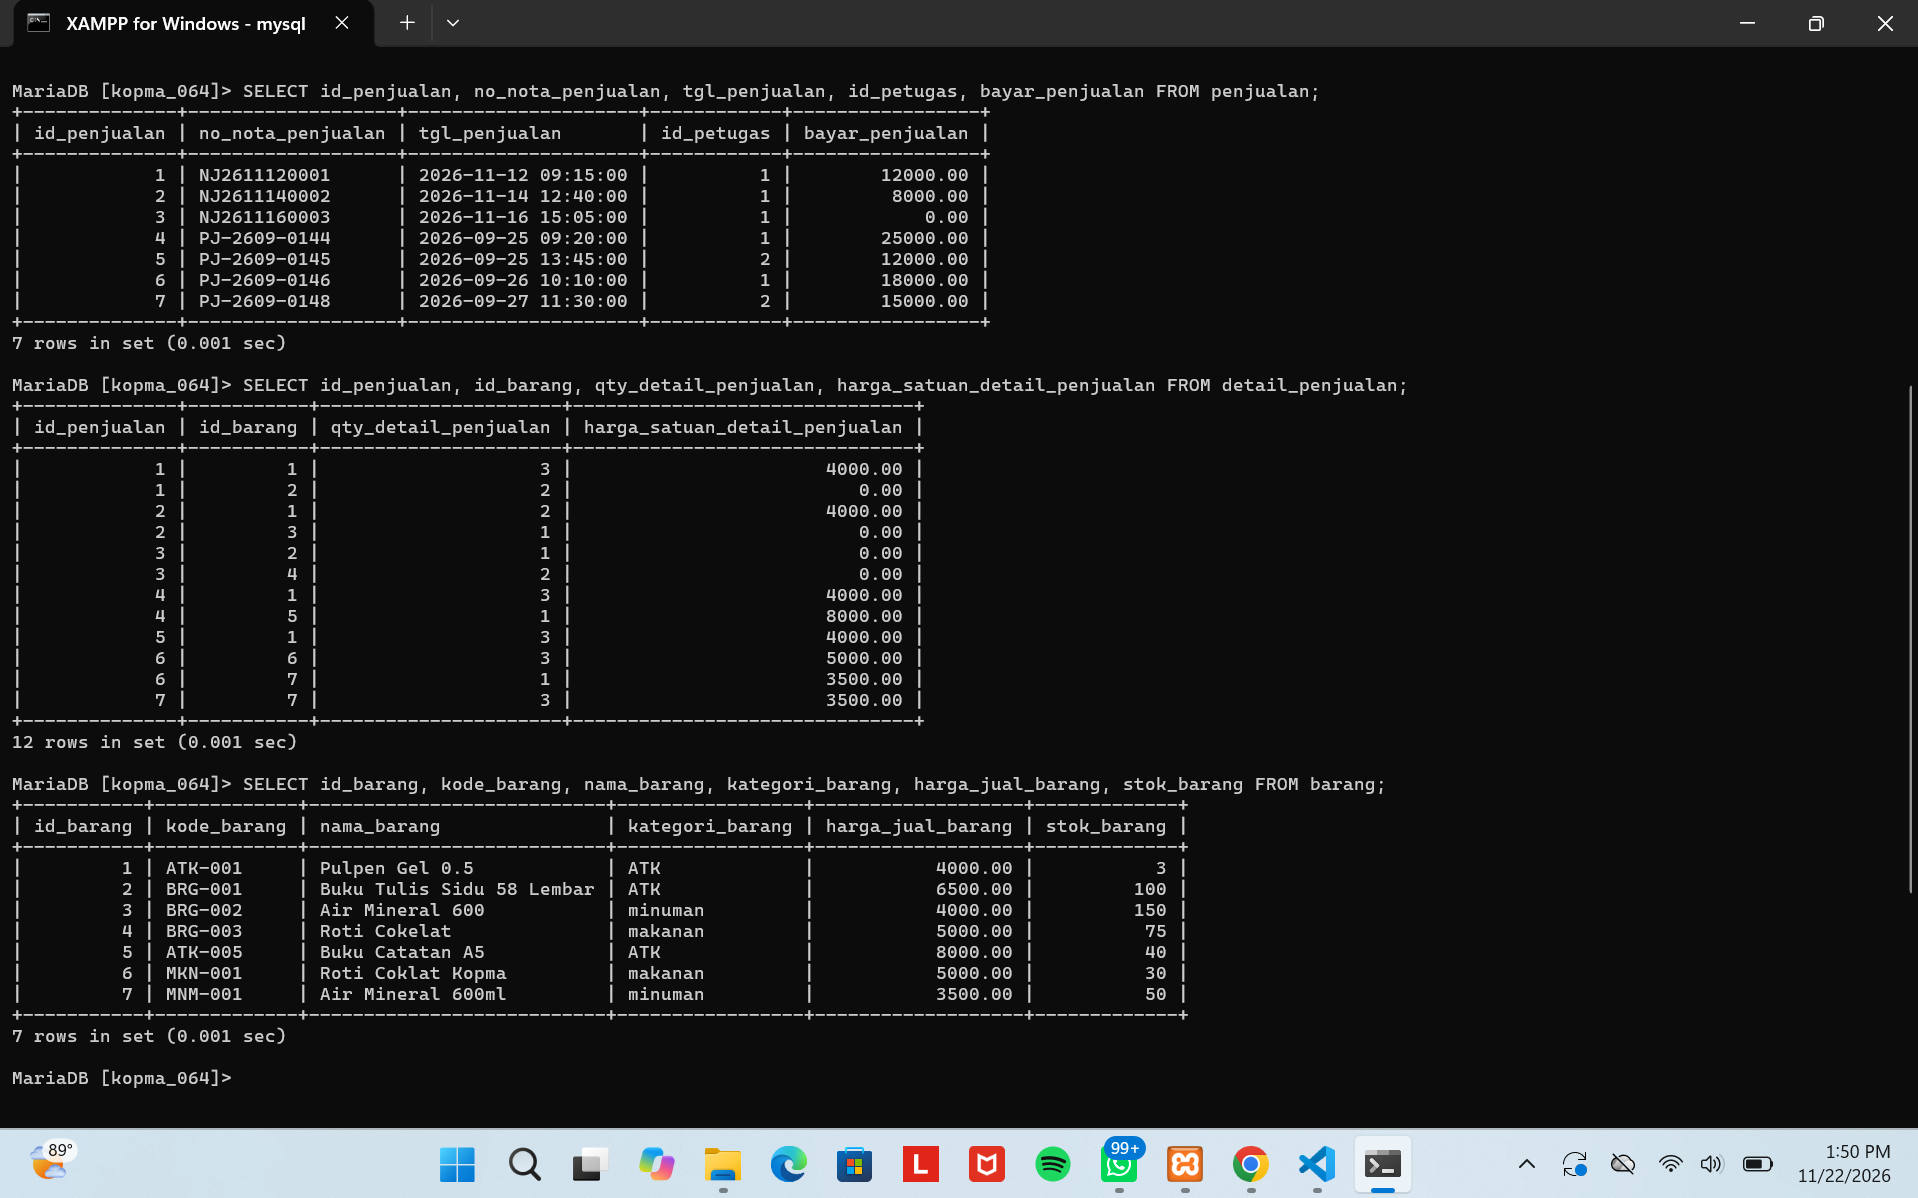
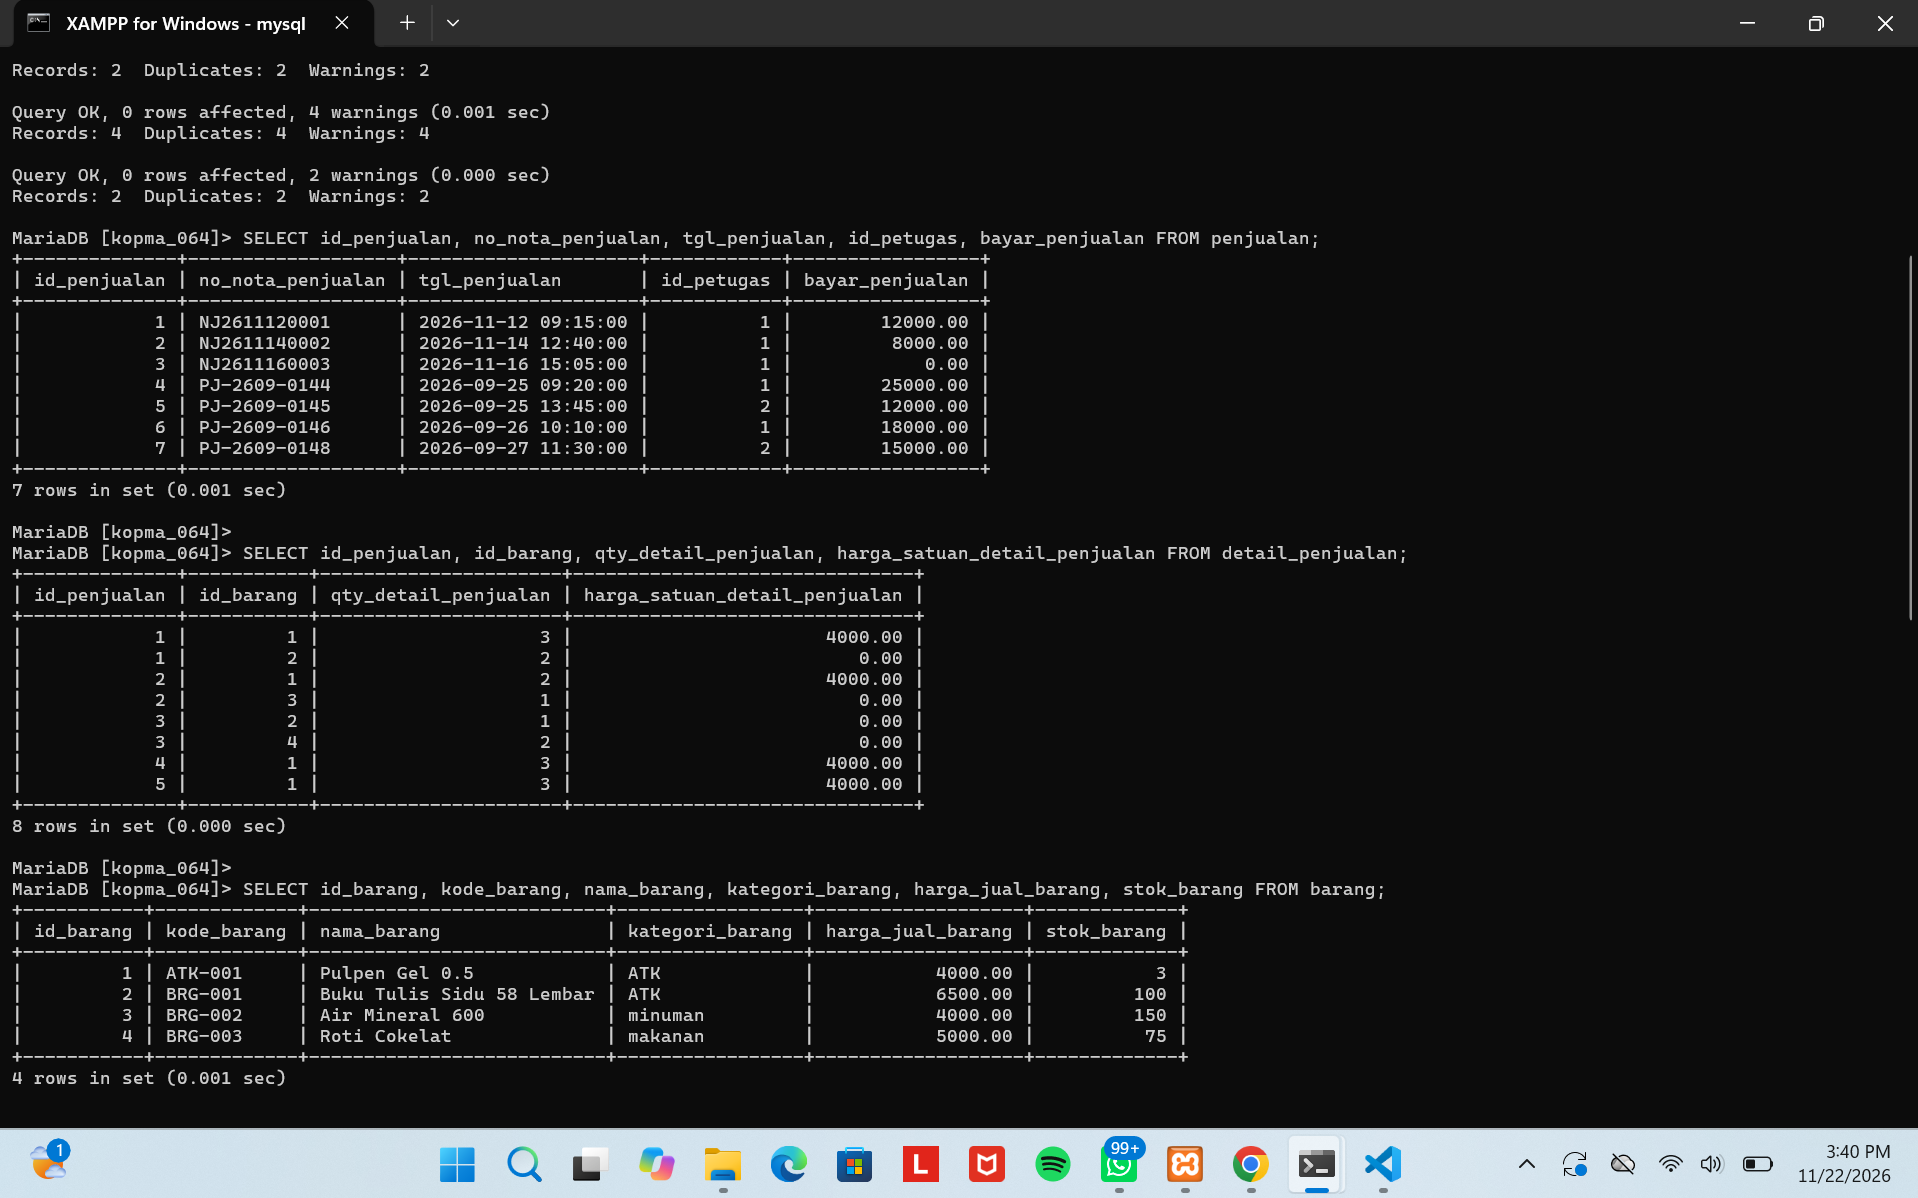
Perbarui screenshot dan laporan Modul 9 tanpa barang tambahan

diff --git a/Laporan/Laporan9_25430064.md b/Laporan/Laporan9_25430064.md
@@ -18,14 +18,14 @@ Tanggal: 22 November 2026
 4. Menampilkan baris ringkasan total (*grand total*) secara otomatis menggunakan `WITH ROLLUP`.
 
 ## 2. Ringkasan Dasar Teori
-* **Clausa `GROUP BY` & Fungsi Agregasi:** Mengelompokkan baris data yang memiliki nilai sama pada kolom tertentu untuk dihitung ringkasannya menggunakan fungsi seperti `COUNT(DISTINCT ...)` dan `SUM(...)`.
-* **Mode `ONLY_FULL_GROUP_BY`:** Mode SQL pada MariaDB/MySQL yang mewajibkan kolom non-agregat pada `SELECT` tercantum jelas dalam klausa `GROUP BY` agar hasil agregasi tidak ambigu.
-* **Clausa `HAVING`:** Digunakan untuk menyaring kelompok hasil agregasi setelah proses `GROUP BY` dan fungsi agregat dihitung (berbeda dari `WHERE` yang menyaring baris sebelum pengelompokan).
-* **Modifikasi `WITH ROLLUP`:** Menambahkan baris ringkasan subtotal maupun total keseluruhan (`NULL`) pada hasil pengelompokan `GROUP BY`.
+- **Clausa `GROUP BY` & Fungsi Agregasi:** Mengelompokkan baris data yang memiliki nilai sama pada kolom tertentu untuk dihitung ringkasannya menggunakan fungsi seperti `COUNT(DISTINCT ...)` dan `SUM(...)`.
+- **Mode `ONLY_FULL_GROUP_BY`:** Mode SQL pada MariaDB/MySQL yang mewajibkan kolom non-agregat pada `SELECT` tercantum jelas dalam klausa `GROUP BY` agar hasil agregasi tidak ambigu.
+- **Clausa `HAVING`:** Digunakan untuk menyaring kelompok hasil agregasi setelah proses `GROUP BY` dan fungsi agregat dihitung (berbeda dari `WHERE` yang menyaring baris sebelum pengelompokan).
+- **Modifikasi `WITH ROLLUP`:** Menambahkan baris ringkasan subtotal maupun total keseluruhan (`NULL`) pada hasil pengelompokan `GROUP BY`.
 
 ## 3. Hasil Langkah Percobaan
-- Pemuatan Data Lanjutan: Berhasil menjalankan skrip `kopma_data_lanjutan.sql` dari jalur absolut `D:/basisdata_25430064/kopma_data_lanjutan.sql` ke basis data `kopma_064` melalui *client* MariaDB di XAMPP Shell.
-- Verifikasi Isi Tabel: Berhasil mengecek isi tabel `penjualan` (7 baris), `detail_penjualan` (12 baris), dan `barang` (7 baris) untuk memastikan data transaksi dan rincian barang lengkap.
+- Pemuatan Data Lanjutan: Berhasil menjalankan skrip `kopma_data_lanjutan.sql` (tanpa barang tambahan `id_barang` 5, 6, dan 7) dari jalur absolut `D:/basisdata_25430064/kopma_data_lanjutan.sql` ke basis data `kopma_064` melalui *client* MariaDB di XAMPP Shell.
+- Verifikasi Isi Tabel: Berhasil mengecek isi tabel `penjualan` (7 baris), `detail_penjualan` ([isi jumlah baris detail_penjualan terbaru] baris), dan `barang` (4 baris) setelah penghapusan data barang tambahan.
 - Pengujian Agregasi: Berhasil menjalankan kueri rekap harian dengan `GROUP BY DATE(p.tgl_penjualan) WITH ROLLUP`, rekap per kategori barang dengan `GROUP BY b.kategori_barang HAVING total_omzet > 0`, serta rekap per petugas dengan `GROUP BY pt.nama_petugas WITH ROLLUP`.
 
 Bukti Pemuatan Data Lanjutan:
@@ -39,11 +39,11 @@ Bukti Kueri Agregasi dan Rekap Omzet Kopma:
 
 ## 4. Jawaban Titik Analisis
 1. **Titik Analisis 1:** Penggunaan `COUNT(DISTINCT p.id_penjualan)` saat menghitung jumlah nota mencegah terjadinya penghitungan ganda ketika satu nota penjualan memiliki lebih dari satu baris pada `detail_penjualan`.
-2. **Titik Analisis 2:** Klausa `HAVING total_omzet > 0` menyaring kelompok setelah fungsi agregasi `SUM(...)` dihitung, sehingga hanya kategori dengan omzet di atas nol (`ATK`, `makanan`, dan `minuman`) yang ditampilkan.
-3. **Titik Analisis 3:** Pada hasil `WITH ROLLUP`, baris dengan nilai `NULL` pada kolom pengelompokan menunjukkan total keseluruhan dari kelompok di atasnya (pada rekap harian `2026-09-24` s.d. `< 2026-09-28` tercatat 4 nota dengan total omzet `61000.00`, sedangkan pada rekap per petugas tercatat total 7 nota dengan omzet `81000.00`).
+2. **Titik Analisis 2:** Klausa `HAVING total_omzet > 0` menyaring kelompok setelah fungsi agregasi `SUM(...)` dihitung, sehingga hanya kategori dengan omzet di atas nol (`ATK`) yang ditampilkan.
+3. **Titik Analisis 3:** Pada hasil `WITH ROLLUP`, baris dengan nilai `NULL` pada kolom pengelompokan menunjukkan total keseluruhan dari kelompok di atasnya (pada rekap harian `2026-09-24` s.d. `< 2026-09-28` tercatat [isi jumlah nota] nota dengan total omzet `[isi total omzet harian]`, sedangkan pada rekap per petugas tercatat total [isi jumlah nota petugas] nota dengan omzet `[isi total omzet petugas]`).
 
 ## 5. Hasil Latihan dan Modifikasi
-1. Menambahkan data transaksi lanjutan ke basis data `kopma_064` melalui skrip `kopma_data_lanjutan.sql` tanpa menimpa data awal.
+1. Menjalankan skrip data lanjutan ke basis data `kopma_064` tanpa menyertakan barang tambahan (`id_barang` 5, 6, dan 7) sehingga hanya menggunakan 4 data barang utama.
 2. Menguji pengelompokan data berdasarkan tiga sudut pandang berbeda: tanggal transaksi (`WITH ROLLUP`), kategori barang (`HAVING`), dan nama petugas kasir (`WITH ROLLUP`).
 
 ## 6. Tugas Mandiri: Penerapan Agregasi Data (`kopma_064` & `toko_064`)
@@ -54,7 +54,7 @@ Bukti Rekap Omzet per Kategori Toko:
 ![Bukti Rekap Omzet per Kategori Toko](../Image/p09_omzet_kategori_toko.png)
 
 ## 7. Pembahasan dan Kendala
-Kendala awal terkait *path* berkas saat pemanggilan `SOURCE` dan kelengkapan data transaksi pada rentang tanggal serta kategori barang teratasi setelah menggunakan jalur absolut `D:/basisdata_25430064/kopma_data_lanjutan.sql` dan memverifikasi ulang hasil `SELECT` serta kueri agregasi di MariaDB.
+Kendala terkait *path* berkas saat pemanggilan `SOURCE`, penghapusan barang tambahan (`id_barang` 5, 6, dan 7), serta penyesuaian hasil rekap teratasi setelah menjalankan skrip dari jalur absolut `D:/basisdata_25430064/kopma_data_lanjutan.sql` dan memverifikasi ulang hasil `SELECT` serta kueri agregasi di MariaDB.
 
 ## 8. Kesimpulan
 Modul 9 berhasil diselesaikan dengan baik. Klausa `GROUP BY` bersama fungsi agregasi (`COUNT`, `SUM`), klausa `HAVING`, dan `WITH ROLLUP` dapat digunakan untuk menyajikan ringkasan transaksi dan total omzet secara terstruktur pada basis data `kopma_064` maupun `toko_064`.
@@ -64,7 +64,7 @@ Penggunaan AI (Gemini) dimanfaatkan untuk membantu menyusun skrip data lanjutan,
 
 ## 10. Bukti Git
 - **Tautan Repositori:** https://github.com/shintaamelia64/BasisData_25430064.git
-- **Commit / Keterangan:** f8bec23
+- **Commit / Keterangan:** Perbarui screenshot dan laporan Modul 9 tanpa barang tambahan
 
 ## Checklist
 - [x] Penamaan file screenshot sudah rapi dan sesuai dengan tautan di laporan
